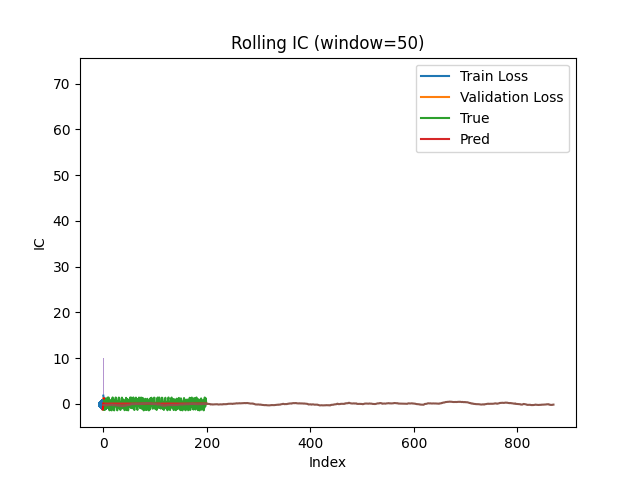
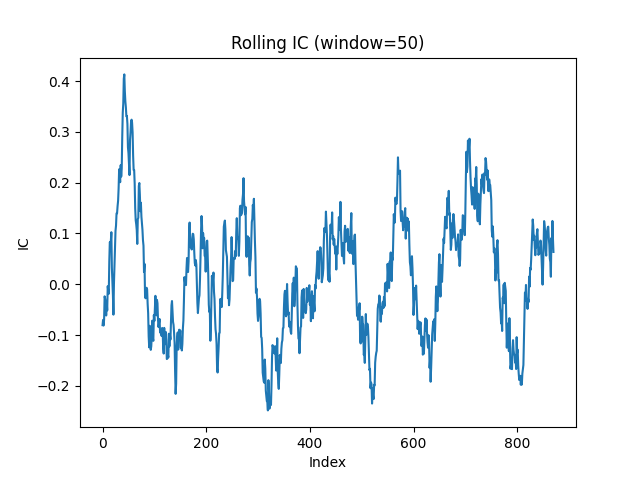
Progress

diff --git a/Stock-Return-Prediction-via-Deep-Learning/processor.py b/Stock-Return-Prediction-via-Deep-Learning/processor.py
@@ -222,6 +222,8 @@ class MetricsMonitor:
         if train_losses is None or val_losses is None:
             print("⚠ No training/validation loss provided.")
             return
+
+        plt.figure()
         plt.plot(train_losses, label="Train Loss")
         plt.plot(val_losses, label="Validation Loss")
         plt.xlabel("Epoch")
@@ -229,21 +231,28 @@ class MetricsMonitor:
         plt.legend()
         plt.title("Training vs Validation Loss")
         plt.savefig("loss_curve.png")
+        plt.close()
 
     def plot_pred_vs_true(self, n=200):
+        plt.figure()
         plt.plot(self.y_true[:n], label="True")
         plt.plot(self.y_pred[:n], label="Pred")
         plt.legend()
         plt.title(f"Prediction vs True (first {n} samples)")
         plt.savefig("Pred_vs_True.png")
+        plt.close()
 
     def plot_residuals(self):
         residuals = self.y_true - self.y_pred
+
+        plt.figure()
         plt.hist(residuals, bins=50, alpha=0.7)
         plt.title("Residual Distribution")
         plt.savefig("Residuals.png")
+        plt.close()
 
     def plot_scatter(self):
+        plt.figure()
         plt.scatter(self.y_true, self.y_pred, alpha=0.5)
         min_val, max_val = min(self.y_true.min(), self.y_pred.min()), max(self.y_true.max(), self.y_pred.max())
         plt.plot([min_val, max_val], [min_val, max_val], "r--")
@@ -251,15 +260,19 @@ class MetricsMonitor:
         plt.ylabel("Predicted")
         plt.title("Pred vs True Scatter")
         plt.savefig("Scatter.png")
+        plt.close()
 
     def plot_rolling_ic(self, window=50):
         rolling_ic = [np.corrcoef(self.y_pred[i:i+window], self.y_true[i:i+window])[0,1] 
                       for i in range(len(self.y_pred)-window)]
+        
+        plt.figure()
         plt.plot(rolling_ic)
         plt.title(f"Rolling IC (window={window})")
         plt.xlabel("Index")
         plt.ylabel("IC")
         plt.savefig("Rolling_IC.png")
+        plt.close()
 
     def run_all(self, train_losses=None, val_losses=None):
         print("📊 Metrics Summary Done")
